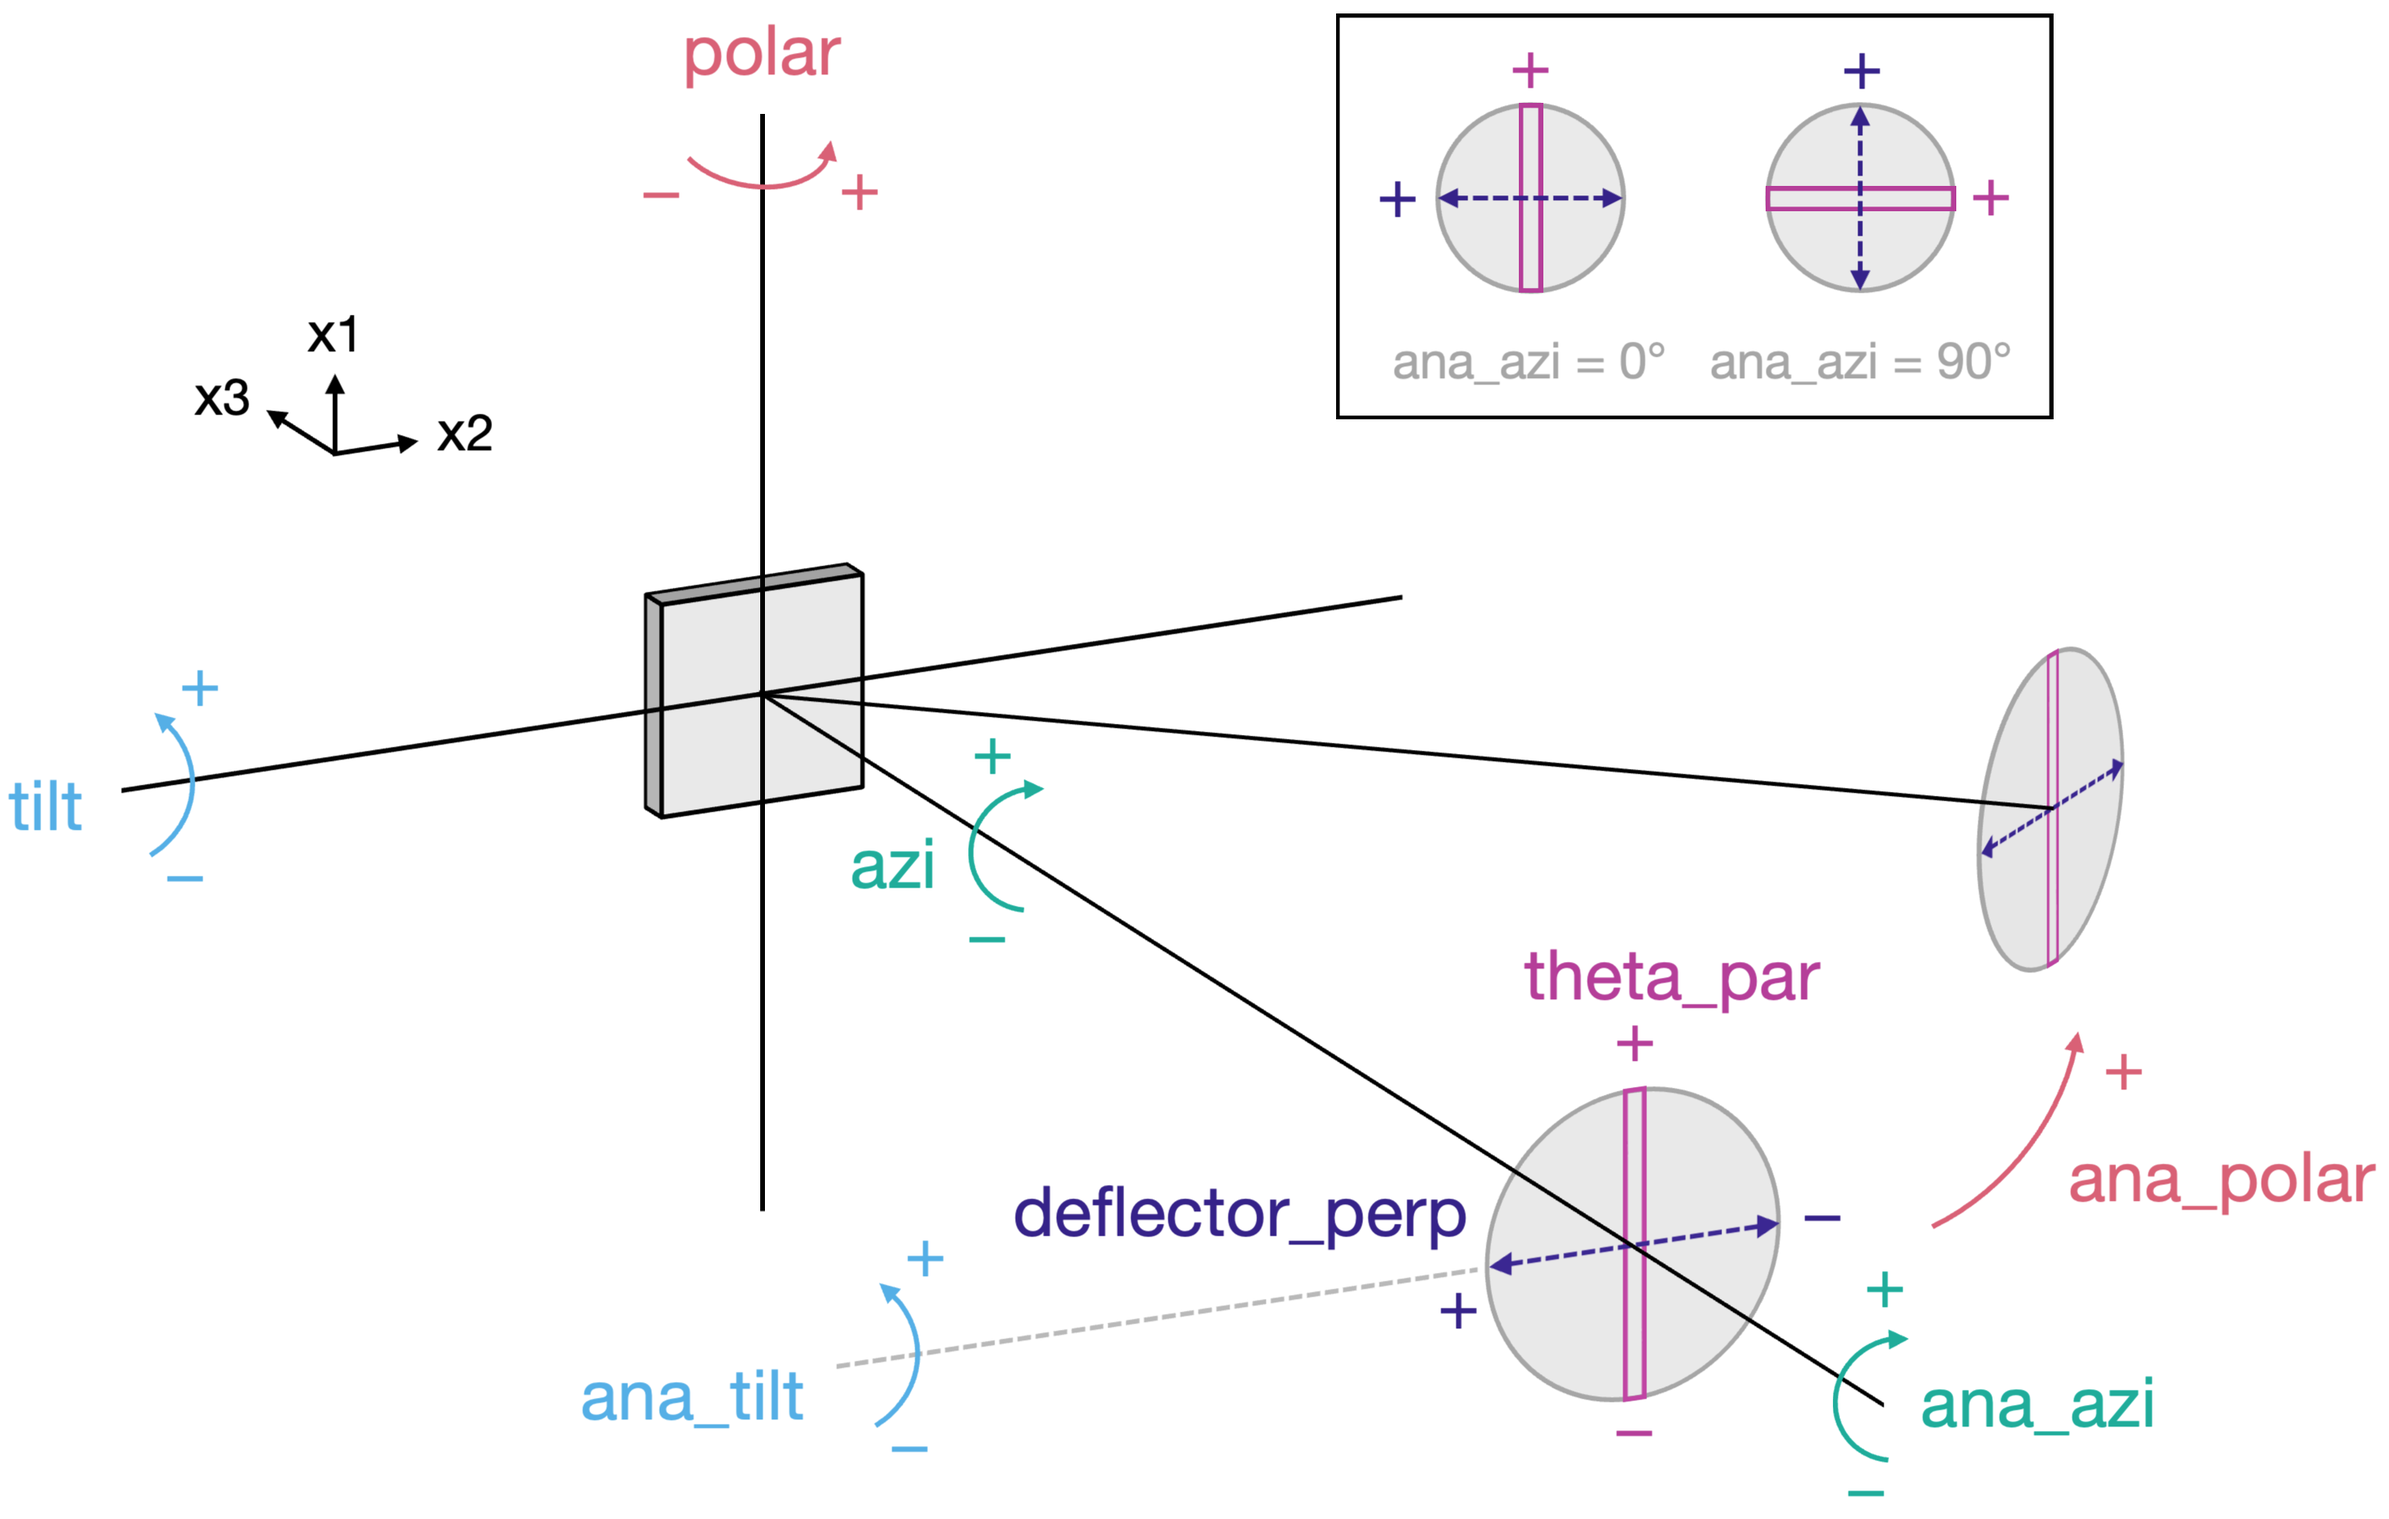
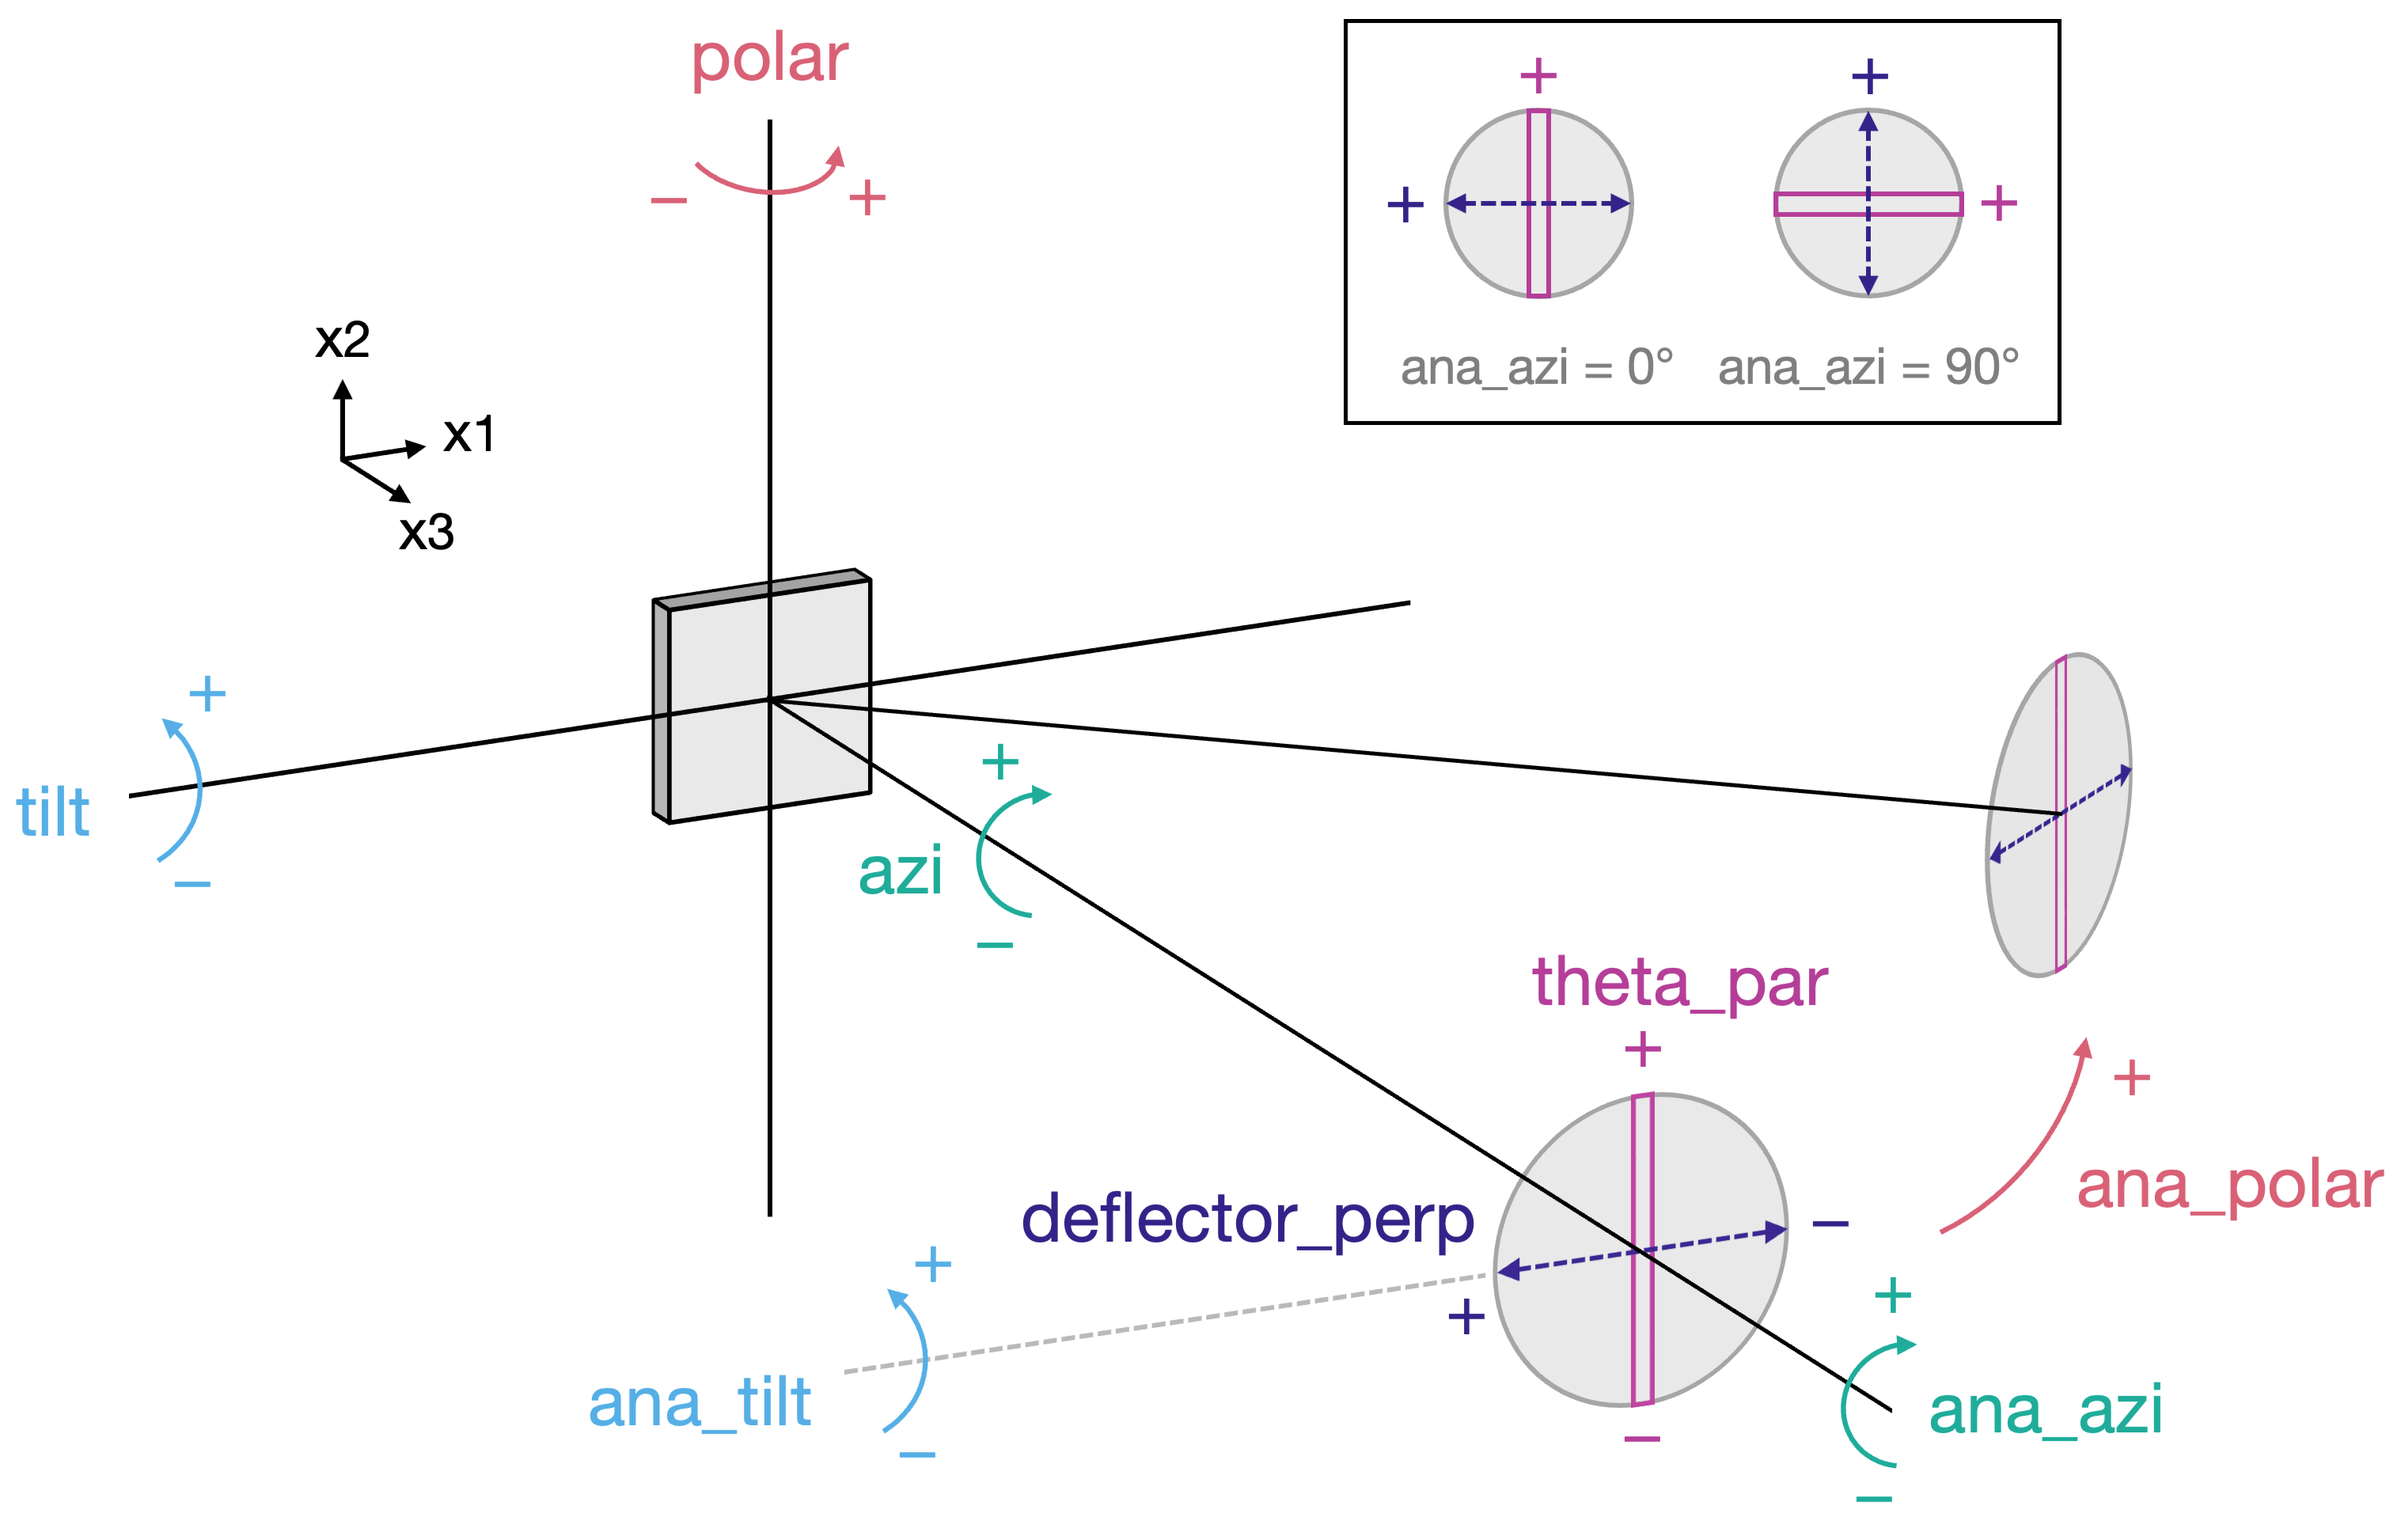
Updated spatial co-ordinates in ref fig and relevant conventions in loaders

diff --git a/peaks/core/fileIO/loaders/diamond.py b/peaks/core/fileIO/loaders/diamond.py
@@ -174,18 +174,20 @@ class I05ARPESLoader(DiamondNXSLoader, BaseARPESDataLoader):
     _analyser_slit_angle = 0 * ureg.deg
 
     _manipulator_name_conventions = {
+        # HR-branch
         "polar": "sapolar",
         "tilt": "satilt",
         "azi": "saazimuth",
         "x1": "sax",
-        "x2": "say",
-        "x3": "saz",
+        "x2": "saz",
+        "x3": "say",
     }
 
     _manipulator_sign_conventions = {
         # HR-branch
         "tilt": -1,
         "azi": -1,
+        "x1": -1,
     }
 
     _analyser_name_conventions = {
@@ -486,6 +488,8 @@ class I05NanoARPESLoader(I05ARPESLoader):
     _manipulator_sign_conventions = {
         # Nano-branch
         "azi": -1,
+        "x1": -1,
+        "x3": -1,
     }
 
     _analyser_sign_conventions = {

diff --git a/peaks/core/fileIO/loaders/standrews_mbs.py b/peaks/core/fileIO/loaders/standrews_mbs.py
@@ -15,12 +15,12 @@ class StAndrewsMBS(MBSDataLoader):
     _loc_url = "https://www.quantummatter.co.uk/king"
     _analyser_slit_angle = 90 * ureg.deg
     _manipulator_name_conventions = {
-        "polar": "polar",
-        "tilt": "tilt",
-        "azi": "azi",
-        "x1": "y",
-        "x2": "z",
-        "x3": "x",
+        "polar": "sapolar",
+        "tilt": "satilt",
+        "azi": "saazi",
+        "x1": "say",
+        "x2": "saz",
+        "x3": "sax",
     }
     _temperature_exclude_from_metadata_warn = [
         "sample",

diff --git a/peaks/core/fileIO/loaders/standrews_phoibos.py b/peaks/core/fileIO/loaders/standrews_phoibos.py
@@ -22,9 +22,9 @@ class StAndrewsSpecs(SpecsDataLoader):
         "polar": "Theta",
         "tilt": "Phi",
         "azi": "Azi",
-        "x1": "X",
-        "x2": "Y",
-        "x3": "Z",
+        "x1": "Y",
+        "x2": "Z",
+        "x3": "X",
     }
     _temperature_exclude_from_metadata_warn = [
         "sample",
@@ -38,6 +38,9 @@ class StAndrewsSpecs(SpecsDataLoader):
 
     _manipulator_sign_conventions = {
         "azi": -1,
+        "x1": -1,
+        "x2": -1,
+        "x3": -1,
     }
     _analyser_sign_conventions = {}
 

diff --git a/docs/source/explanations/angle_conventions.md b/docs/source/explanations/angle_conventions.md
@@ -9,7 +9,7 @@ The primary `peaks` coordinate convention is shown [below](#coord_conventions_fi
 
 `peaks` sample manipulator and electron analyser coordinate conventions.
 ```
-We assume a sample manipulator with a primary rotary axis, which we term `polar`. At the sample stage, a secondary `tilt` and tertiary `azi` axis provide the sample angular positioning control. Similarly, the spectrometer is defined by polar, tilt, and azimuth angles which have the same sign convention as the manipulator ones. For a fixed analyser geometry, the `ana_polar` and `ana_tilt` angles are typically zero, but these allow, e.g., inclusion of a moving analyser. `ana_azi`$=0$ defines that the entrance slit of a hemispherical analyser is aligned along the polar axis. The manipulator also has three spatial dimensions, `x1`, `x2`, `x3` as shown in the [figure](#coord_conventions_figure).
+We assume a sample manipulator with a primary rotary axis, which we term `polar`. At the sample stage, a secondary `tilt` and tertiary `azi` axis provide the sample angular positioning control. Similarly, the spectrometer is defined by polar, tilt, and azimuth angles which have the same sign convention as the manipulator ones, and the sign convention for `deflector_parallel` is consistent with that of `theta_par`. For a fixed analyser geometry, the `ana_polar` and `ana_tilt` angles are typically zero, but these allow, e.g., inclusion of a moving analyser. `ana_azi`$=0$ defines that the entrance slit of a hemispherical analyser is aligned along the polar axis. The manipulator also has three spatial dimensions, `x1`, `x2`, `x3` as shown in the [figure](#coord_conventions_figure).
 
 :::{important}
 When data are loaded, the local axis names are converted to `peaks` conventions to allow uniform handling in function calls. However, **signs are not changed to match our [conventions](#coordinate-conventions)**. This choice is made so that that reading off a value of the dataset at, e.g. a given angle or spatial position, still corresponds to that of the physical manipualtor/analyser. This significantly simplifies interpretation when using `peaks` for on-the-fly data analysis, reducing load on the experimenter.
